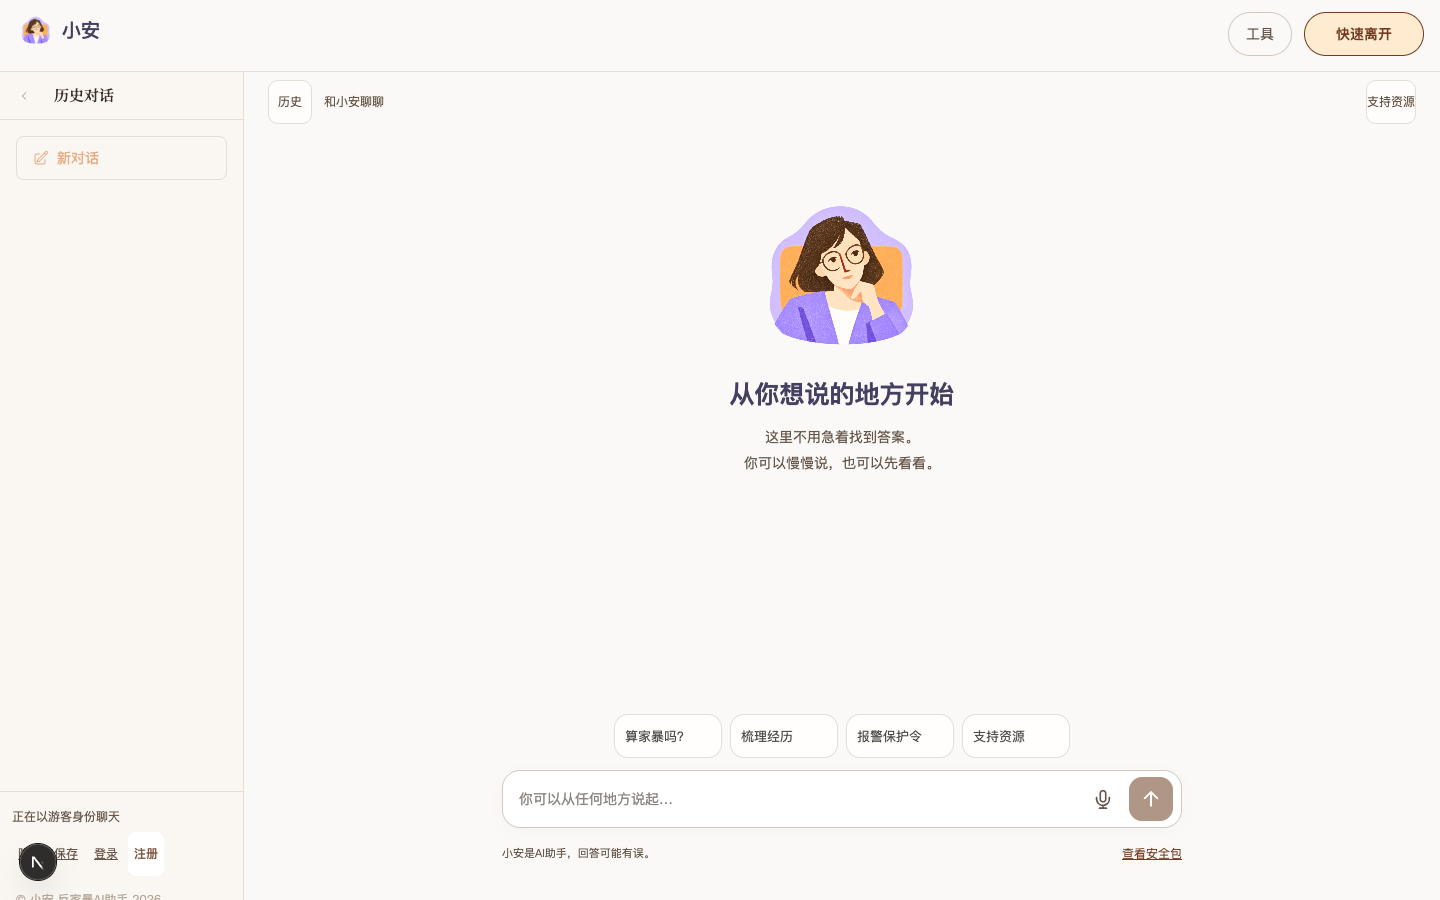
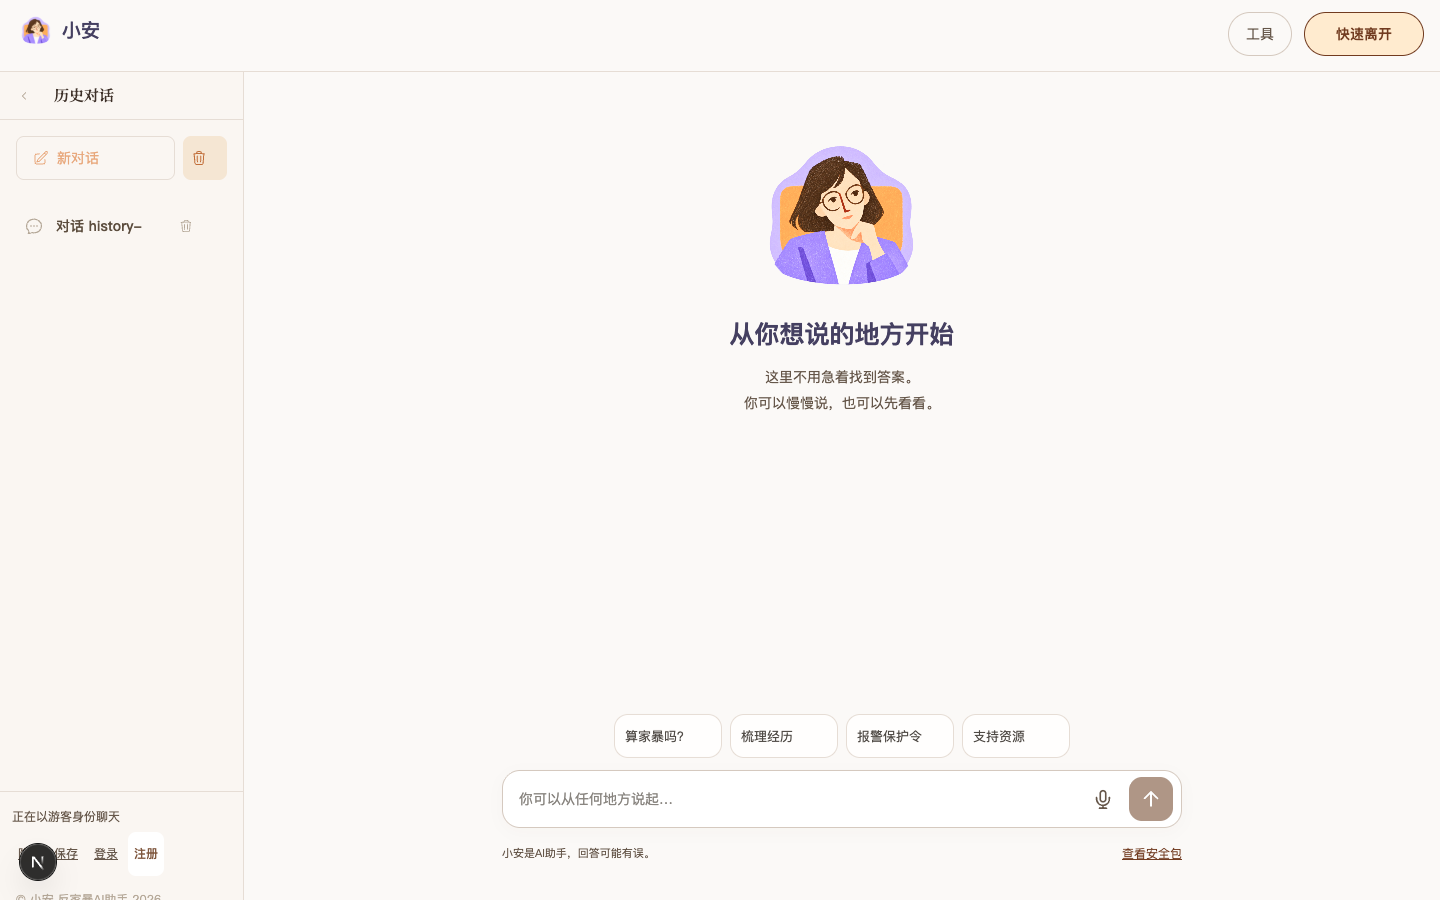
fix: align existing chat messages with approved design (#24)

diff --git a/app/components/chat/answer/index.tsx b/app/components/chat/answer/index.tsx
@@ -66,6 +66,15 @@ const Answer: FC<IAnswerProps> = ({
 }) => {
   const { id, content, feedback, suggestedQuestions = [] } = item
   const [showReviewModal, setShowReviewModal] = useState(false)
+  const [copyStatus, setCopyStatus] = useState('')
+
+  const copyAnswer = async () => {
+    try {
+      await navigator.clipboard.writeText(content)
+      setCopyStatus('已复制')
+    }
+    catch { setCopyStatus('复制未完成，请选中文字复制。') }
+  }
 
   const { t } = useTranslation()
 
@@ -126,12 +135,13 @@ const Answer: FC<IAnswerProps> = ({
       if (isResponding || !onReview) { return null }
       return (
         <Tooltip selector={`review-${randomString(16)}`} content={item.userReview ? '修改评价' : '评价此回复'}>
-          <button type="button" aria-label={`${item.userReview ? '修改评分与反馈' : '评分与反馈'}：小安第 ${number} 条回答`} onClick={() => setShowReviewModal(true)} className="flex h-9 w-9 items-center justify-center rounded-lg border border-gray-200 bg-white text-gray-600 shadow-sm hover:text-orange-800 focus-visible:outline focus-visible:outline-2 focus-visible:outline-orange-800">
+          <button type="button" aria-label={`${item.userReview ? '修改评分与反馈' : '评分与反馈'}：小安第 ${number} 条回答`} onClick={() => setShowReviewModal(true)} className="chat-answer-action">
               <IconWrapper>
                 <svg width="14" height="14" viewBox="0 0 24 24" fill={item.userReview ? '#FBBF24' : 'none'} stroke={item.userReview ? '#FBBF24' : 'currentColor'} strokeWidth="2">
                   <path strokeLinecap="round" strokeLinejoin="round" d="M11.48 3.499a.562.562 0 011.04 0l2.125 5.111a.563.563 0 00.475.345l5.518.442c.499.04.701.663.321.988l-4.204 3.602a.563.563 0 00-.182.557l1.285 5.385a.562.562 0 01-.84.61l-4.725-2.885a.563.563 0 00-.586 0L6.982 20.54a.562.562 0 01-.84-.61l1.285-5.386a.562.562 0 00-.182-.557l-4.204-3.602a.563.563 0 01.321-.988l5.518-.442a.563.563 0 00.475-.345L11.48 3.5z" />
                 </svg>
               </IconWrapper>
+              <span>{item.userReview ? '修改评价' : '评价这次回答'}</span>
           </button>
         </Tooltip>
       )
@@ -146,7 +156,7 @@ const Answer: FC<IAnswerProps> = ({
   }
 
   return (
-    <article id={`answer-${id}`} tabIndex={-1} aria-labelledby={`answer-title-${id}`} key={id}>
+    <article className="chat-answer-message" id={`answer-${id}`} tabIndex={-1} aria-labelledby={`answer-title-${id}`} key={id}>
       <h2 id={`answer-title-${id}`} className="sr-only">小安第 {number} 条回答</h2>
       {showReviewModal && (
         <ReviewModal
@@ -156,8 +166,8 @@ const Answer: FC<IAnswerProps> = ({
           onClose={() => setShowReviewModal(false)}
         />
       )}
-      <div className="flex items-start">
-        <div className={`${s.answerIcon} w-10 h-10 shrink-0`} style={{ backgroundImage: `url(${brandAssets.avatar})`, backgroundSize: brandAssets.avatarSize, backgroundPosition: 'center' }} role="img" aria-label="小安">
+      <div className="chat-answer-author">
+        <div className={`${s.answerIcon} w-8 h-8 shrink-0`} style={{ backgroundImage: `url(${brandAssets.avatar})`, backgroundSize: brandAssets.avatarSize, backgroundPosition: 'center' }} aria-hidden="true">
           {isResponding
             && (
               <div className={s.typeingIcon}>
@@ -165,23 +175,15 @@ const Answer: FC<IAnswerProps> = ({
               </div>
             )}
         </div>
-        <div className={`${s.answerWrap} min-w-0 max-w-[calc(100%-3rem)]`}>
+        <span>小安</span><span className="chat-answer-number">第 {number} 条回答</span>
+      </div>
+      <div>
+        <div className={`${s.answerWrap} min-w-0`}>
           <div className={`${s.answer} relative text-sm text-gray-900`}>
-            <div className="chat-answer-bubble ml-3 px-5 py-4 overflow-x-auto">
+            <div className="chat-answer-bubble overflow-x-auto">
               {isResponding && !content
                 ? <div className="flex items-center justify-center w-6 h-5"><LoadingAnim type="text" /></div>
                 : <StreamdownMarkdown content={content} />}
-              {suggestedQuestions.length > 0 && (
-                <div className="mt-3">
-                  <div className="flex gap-1 mt-1 flex-wrap">
-                    {suggestedQuestions.map((suggestion, index) => (
-                      <div key={index} className="flex items-center gap-1">
-                        <Button className="text-sm" type="link" onClick={() => suggestionClick(suggestion)}>{suggestion}</Button>
-                      </div>
-                    ))}
-                  </div>
-                </div>
-              )}
               {item.userReview && (
                 <div className="mt-2 flex items-center gap-1.5 text-xs text-gray-500 border-t border-gray-200 pt-2">
                   <span className="flex shrink-0" aria-hidden="true">
@@ -199,7 +201,10 @@ const Answer: FC<IAnswerProps> = ({
               )}
             </div>
             {debugEnabled && !isResponding && <DebugPanel debug={item.debug} />}
-            <div className="mt-3 flex flex-row justify-end gap-2">
+            <div className="chat-answer-actions">
+              {!isResponding && <button type="button" className="chat-answer-action" aria-label={`复制小安第 ${number} 条回答`} onClick={() => void copyAnswer()}>
+                <svg aria-hidden="true" width="18" height="18" viewBox="0 0 24 24" fill="none" stroke="currentColor" strokeWidth="1.5"><path d="M9 9h12v12H9zM15 9V3H3v12h6" /></svg><span>复制</span>
+              </button>}
               {!feedbackDisabled && !item.feedbackDisabled && renderItemOperation()}
               {/* User feedback must be displayed */}
               {!feedbackDisabled && renderFeedbackRating(feedback?.rating)}
@@ -222,6 +227,10 @@ const Answer: FC<IAnswerProps> = ({
                 </Tooltip>
               )}
             </div>
+            {copyStatus && <p role="status" className="chat-copy-status">{copyStatus}</p>}
+            {suggestedQuestions.length > 0 && <div className="chat-answer-suggestions">
+              {suggestedQuestions.map((suggestion, index) => <Button key={index} className="text-sm" type="link" onClick={() => suggestionClick(suggestion)}>{suggestion}</Button>)}
+            </div>}
           </div>
         </div>
       </div>

diff --git a/app/styles/chat-redesign.css b/app/styles/chat-redesign.css
@@ -25,26 +25,6 @@
   min-height: 0;
 }
 
-.chat-thread-toolbar {
-  display: flex;
-  align-items: center;
-  justify-content: space-between;
-  gap: 12px;
-  padding: 8px 24px;
-  font-size: 12px;
-  color: #655649;
-}
-
-.chat-thread-toolbar button {
-  border: 1px solid #e6ddd5;
-  border-radius: 10px;
-  background: #fffdfb;
-}
-
-.chat-thread-toolbar span {
-  margin-right: auto;
-}
-
 .figma-chat-shell .chat-scroll-area {
   flex: 1;
   min-height: 0;
@@ -196,7 +176,89 @@
   background: transparent !important;
   border: 0 !important;
   box-shadow: none !important;
-  padding: 0 0 0 4px !important;
+  padding: 0 !important;
+}
+
+.chat-answer-author {
+  display: flex;
+  align-items: center;
+  gap: 10px;
+  margin-bottom: 14px;
+  color: #655649;
+  font-size: 13px;
+}
+
+.chat-answer-number {
+  color: #817365;
+  font-size: 12px;
+}
+
+.figma-chat-shell .chat-answer-bubble .streamdown-markdown {
+  font-size: 16px;
+  line-height: 1.6;
+  color: #4a4238;
+}
+
+.figma-chat-shell .chat-answer-bubble .streamdown-markdown > div > * {
+  margin-top: 0;
+  margin-bottom: 0;
+}
+
+.figma-chat-shell .chat-answer-bubble .streamdown-markdown > div > * + * {
+  margin-top: 0.625em;
+}
+
+.chat-answer-actions {
+  display: flex;
+  align-items: center;
+  flex-wrap: wrap;
+  gap: 12px;
+  margin-top: 12px;
+}
+
+.figma-chat-shell .chat-answer-action {
+  display: inline-flex;
+  align-items: center;
+  justify-content: center;
+  gap: 6px;
+  min-width: 44px;
+  min-height: 44px;
+  padding: 4px 8px;
+  border: 0;
+  border-radius: 8px;
+  background: transparent;
+  color: #655649;
+  font-size: 13px;
+}
+
+.chat-answer-action:hover {
+  background: #f5e6d3;
+}
+
+.chat-copy-status {
+  margin: 0;
+  color: #655649;
+  font-size: 12px;
+}
+
+.chat-answer-suggestions {
+  display: flex;
+  flex-wrap: wrap;
+  gap: 8px;
+  margin-top: 12px;
+}
+
+.figma-chat-shell .chat-answer-suggestions button {
+  min-height: 44px;
+  height: auto;
+  padding: 8px 14px;
+  border: 1px solid #e6ddd5;
+  border-radius: 24px;
+  background: #fffefd;
+  color: #655649;
+  font-size: 13px;
+  white-space: normal;
+  text-align: left;
 }
 
 .chat-question-bubble {
@@ -245,14 +307,6 @@
   .chat-topbar-brand {
     gap: 6px;
     font-size: 17px;
-  }
-
-  .chat-thread-toolbar {
-    padding: 8px 14px;
-  }
-
-  .chat-thread-toolbar span {
-    display: none;
   }
 
   .figma-chat-shell .chat-content-container {

diff --git a/app/components/index.tsx b/app/components/index.tsx
@@ -186,7 +186,7 @@ const Main: FC<IMainProps> = () => {
       <Header
         title={APP_INFO.title}
         isMobile={isMobile}
-        onShowSideBar={showSidebar}
+        onShowSideBar={isMobile ? showSidebar : toggleSidebarCollapse}
         onCreateNewChat={() => handleConversationIdChange('-1')}
         onShowResourcePanel={isDesktop ? togglePanelCollapse : showResourcePanel}
         hasSetInputs={hasSetInputs}
@@ -215,7 +215,6 @@ const Main: FC<IMainProps> = () => {
         {/* main + resource panel */}
         <div className='flex min-w-0 flex-1 overflow-hidden'>
           <div className="chat-center-column">
-          <div className="chat-thread-toolbar"><button type="button" onClick={isMobile ? showSidebar : toggleSidebarCollapse} aria-expanded={isMobile ? isShowSidebar : !isSidebarCollapsed}>历史</button><span>{conversationName}</span><button type="button" onClick={isDesktop ? togglePanelCollapse : showResourcePanel}>支持资源</button></div>
           <main ref={scrollRef} className='chat-scroll-area flex min-w-0 flex-1 flex-col overflow-y-auto'
             onScroll={event => {
               const element = event.currentTarget
@@ -225,7 +224,10 @@ const Main: FC<IMainProps> = () => {
             onFocusCapture={event => {
               if ((event.target as HTMLElement).closest('#chat-content article')) { followLatest.current = false }
             }}
-            onPointerDown={event => { if (!isMobile && event.currentTarget.contains(event.target as Node)) { collapseSidebar() } }}
+            onPointerDown={event => {
+              const target = event.target as Element
+              if (!isMobile && event.currentTarget.contains(target) && !target.closest('button, a, input, textarea, select, summary, [contenteditable="true"]')) { collapseSidebar() }
+            }}
             style={{ scrollPaddingBottom: 24 }}>
 
             <h1 id="conversation-title" tabIndex={-1} className="sr-only">{conversationName}</h1>

diff --git a/app/components/header.tsx b/app/components/header.tsx
@@ -32,7 +32,7 @@ const Header: FC<IHeaderProps> = ({ title, isMobile, onShowSideBar, onShowResour
     }}>
       <summary aria-label="显示或隐藏对话工具">工具</summary>
       <nav aria-label="对话操作" className="chat-topbar-actions">
-      {isMobile && <button type="button" onClick={onShowSideBar} aria-label="打开历史对话"><Bars3Icon /></button>}
+      <button type="button" onClick={onShowSideBar} aria-label="打开历史对话"><Bars3Icon /></button>
       <Link href="/" aria-label="返回首页"><HomeIcon /></Link>
       {hasSetInputs && <button type="button" onClick={onShowResourcePanel} aria-label="打开支持资源"><BookOpenIcon /></button>}
 

diff --git a/docs/design/shadcn-chat-v1/IMPLEMENTATION.md b/docs/design/shadcn-chat-v1/IMPLEMENTATION.md
@@ -21,3 +21,11 @@
 - 本機磁碟反覆 ENOSPC，後改用不寫 webpack cache 的暫時開發啟動方式完成驗證；正式 next.config.js 未改。本輪未做完整 production build 或真機讀屏／手機驗收。
 
 實際頁面截圖：[桌面](implementation/desktop.png)、[手機](implementation/mobile.png)。先前設計稿僅為參考，這兩張來自正式元件的本機頁面。
+
+## 已有對話版面修正（2026-11-05）
+
+- 已有對話與即時回答共用新版回答元件：32px 現用頭像、作者／序號在上，正文在下；複製與文字評價靠左，回覆建議保留膠囊。
+- 正文 16px、1.6 倍行高，相鄰段落 0.625em（10px）間距。
+- 移除頂部「歷史／和小安聊聊／支持資源」整列。讀屏標題保留；桌面／手機均可從工具開啟歷史與資源，桌面側欄也保留歷史入口。
+- 點主聊天區收合側欄時排除按鈕、連結與表單控制項，防止 pointerdown 引發位移而吞掉操作。
+- 本機驗證：已有歷史載入、新聊天、320px／390px／桌面、行距／段距、實際剪貼簿複製及評價彈窗通過；10 組聊天回歸無頁面錯誤，11 項輸入／停止回歸及 TypeScript、修改檔 ESLint 通過。
